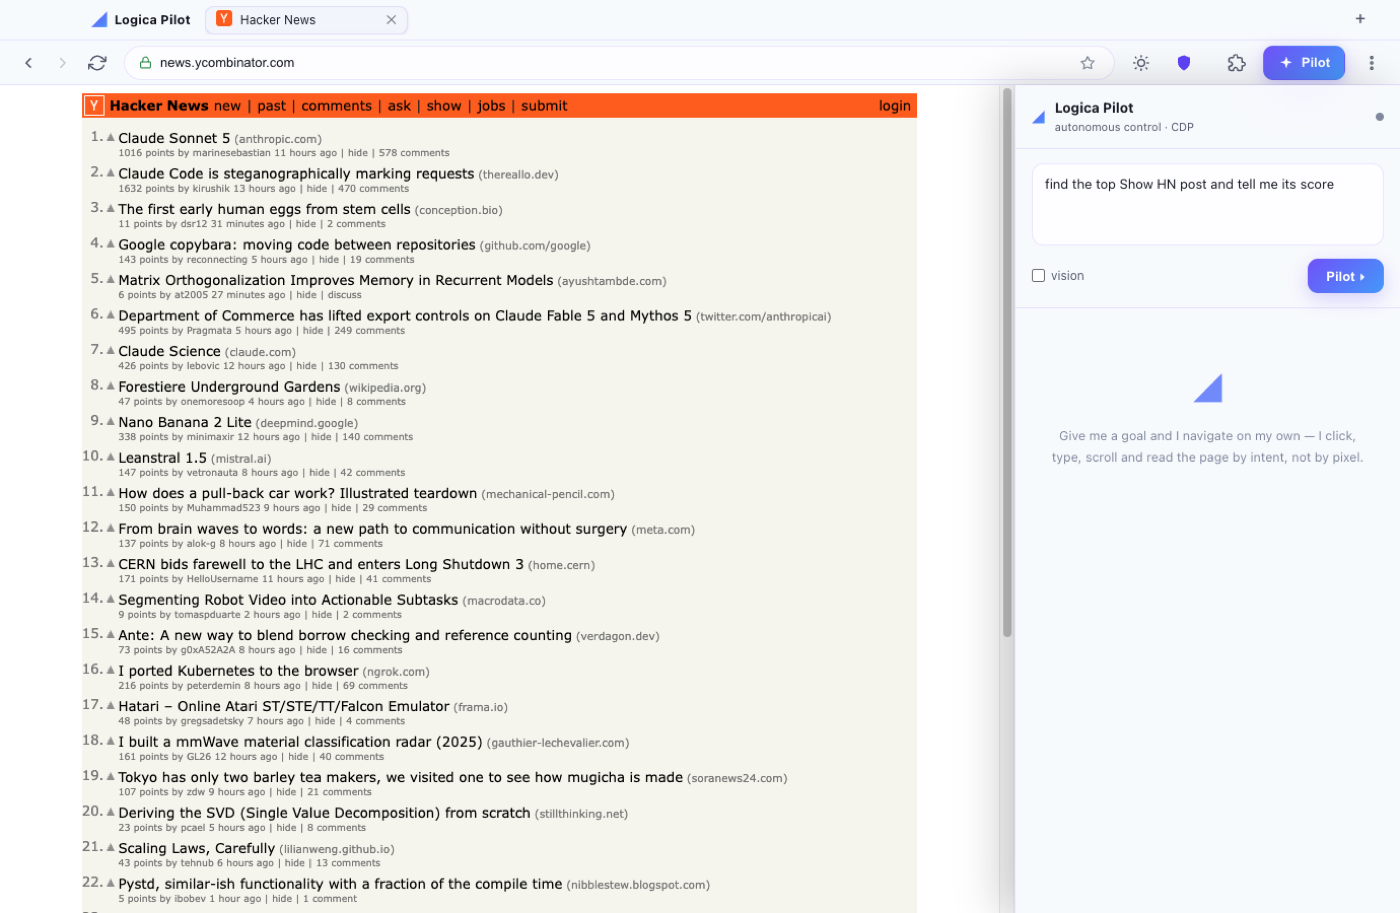
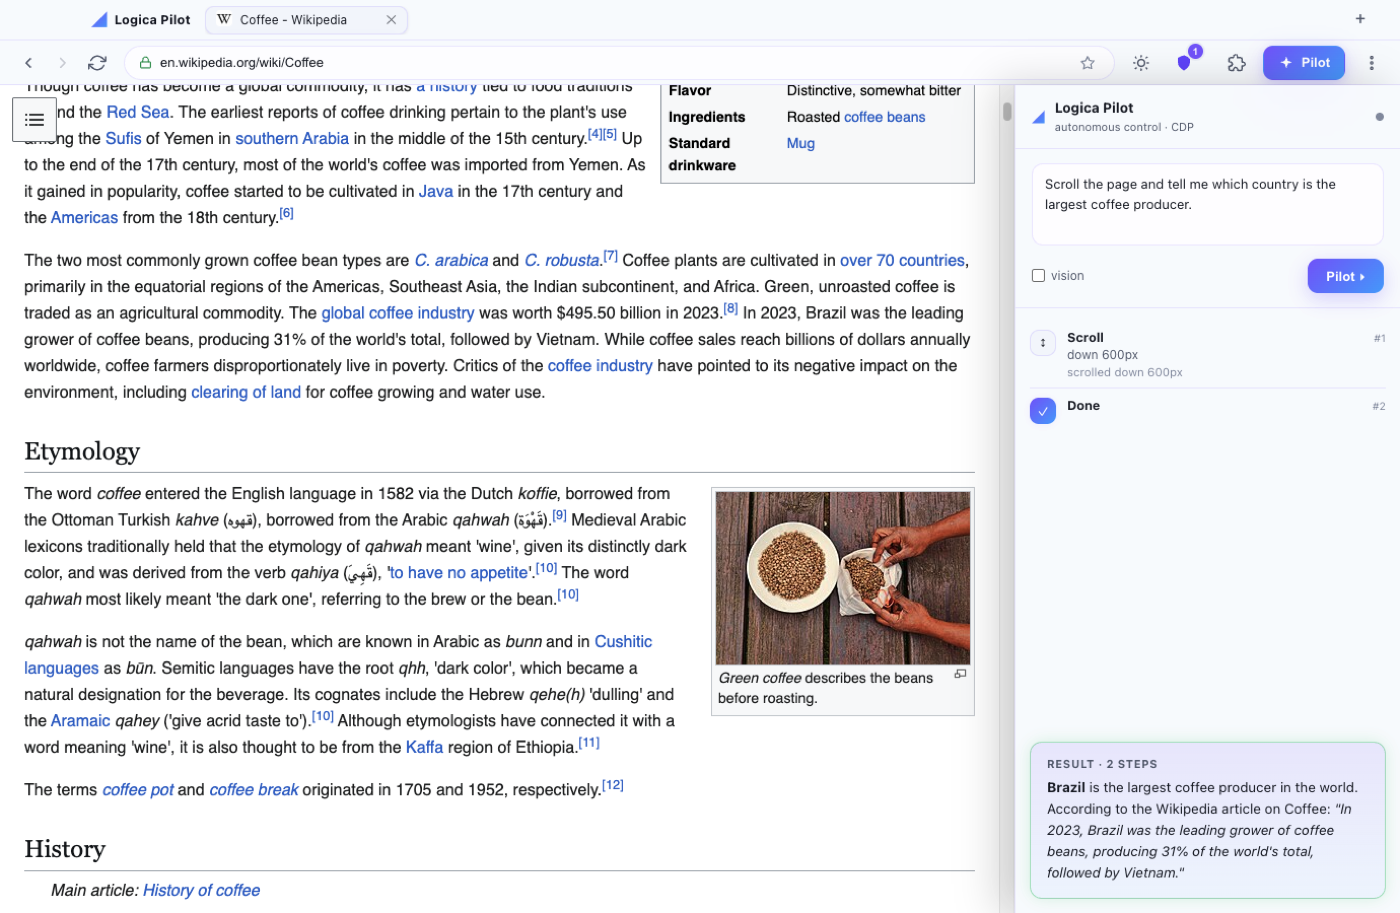
fix(pilot): answer in the browser language + render markdown; add real "in action" screenshots
Two bugs the screenshots exposed:
- The Pilot always answered in Portuguese (SYSTEM_PROMPT + the `done` tool hardcoded
  "in PT-BR"). Now it answers in the SAME LANGUAGE as the objective, and the desktop
  passes the resolved UI language explicitly (agent.run `language` option).
- The result rendered raw markdown (`**bold**` shown literally). New mdInline() safely
  renders **bold** / *italic* / `code` / line breaks (escapes HTML first) in the result
  and step lines.

Real captured screenshots (via the capture mode, English UI):
- screenshot-pilot.png: the Pilot autonomously executing a goal on Wikipedia and
  answering "**Brazil** is the largest coffee producer…" — in English, formatted.
- screenshot-adblock.png: the native ad-block panel (real blocked count on a live page).
- screenshot-home.png: the new-tab page. demo.gif is now a tour of these real states.

diff --git a/app/main.js b/app/main.js
@@ -298,28 +298,51 @@ async function runCapture(win) {
   try { fs.mkdirSync(dir, { recursive: true }); } catch {}
   const wc = win.webContents;
   const js = (code) => wc.executeJavaScript(code, true).catch(() => {});
-  const shot = async (name, ms) => {
-    await new Promise((r) => setTimeout(r, ms));
+  const sleep = (ms) => new Promise((r) => setTimeout(r, ms));
+  const shotOf = async (target, name, ms) => {
+    if (ms) await sleep(ms);
     try {
-      const img = await wc.capturePage();
+      const img = await target.webContents.capturePage();
       fs.writeFileSync(path.join(dir, name), img.toPNG());
       console.log('[capture] wrote', name);
     } catch (e) { console.error('[capture] shot failed', name, e && e.message); }
   };
+  const shot = (name, ms) => shotOf(win, name, ms);
   try {
     try { win.show(); win.focus(); } catch {}
-    // Force English everywhere: the shell i18n AND the newtab webview's own runtime
-    // i18n (which fetches pilot://newtab/_data/i18n based on settings.language).
+    // Force English everywhere: shell i18n + the newtab webview's own runtime i18n.
     try { settingsStore.set({ language: 'en' }); } catch {}
     await js(`window.i18n && window.i18n.setLang('en')`);
-    await js(`window.dispatchMenu && window.dispatchMenu('reload')`); // newtab re-fetches i18n in EN
-    await new Promise((r) => setTimeout(r, 1200));
-    await shot('home.png', 3000);                                 // new-tab (branded + feed)
-    await js(`window.dispatchMenu && window.dispatchMenu('open-url','https://news.ycombinator.com')`);
-    await shot('browsing.png', 5500);                             // real page rendered in a tab
+    await js(`window.dispatchMenu && window.dispatchMenu('reload')`);
+    await sleep(1200);
+    await shot('home.png', 2600);                                  // new-tab (branded)
+
+    // ── THE money shot: the Pilot AUTONOMOUSLY executing a real task ──
+    // Navigate a real page, open the panel, give a goal, click Run — the LogicaProxy
+    // drives the observe→decide→act loop and the timeline fills with real steps.
+    await js(`window.dispatchMenu && window.dispatchMenu('open-url','https://en.wikipedia.org/wiki/Coffee')`);
+    await sleep(4500);
     await js(`window.dispatchMenu && window.dispatchMenu('toggle-pilot');` +
-      `var g=document.getElementById('goal'); if(g){g.value='find the top Show HN post and tell me its score'; g.dispatchEvent(new Event('input')); g.focus();}`);
-    await shot('pilot.png', 1800);                                // Pilot copilot panel open
+      `var g=document.getElementById('goal');` +
+      `if(g){g.value='Scroll the page and tell me which country is the largest coffee producer.'; g.dispatchEvent(new Event('input'));}` +
+      `var r=document.getElementById('run'); if(r) r.click();`);
+    await shot('pilot-running.png', 30000);                        // let the loop produce steps
+
+    // ── Ad-block panel (separate popup window) ──
+    await js(`var b=document.getElementById('adblock-btn'); if(b) b.click();`);
+    await sleep(1400);
+    if (typeof adblockPanelWin !== 'undefined' && adblockPanelWin && !adblockPanelWin.isDestroyed()) {
+      await shotOf(adblockPanelWin, 'adblock-panel.png', 400);
+    }
+    await js(`document.body.click();`);
+    await sleep(400);
+
+    // ── Extensions menu (separate popup window) ──
+    await js(`var e=document.getElementById('ext-btn'); if(e) e.click();`);
+    await sleep(1600);
+    if (typeof menuPopupWin !== 'undefined' && menuPopupWin && !menuPopupWin.isDestroyed()) {
+      await shotOf(menuPopupWin, 'ext-menu.png', 400);
+    }
   } catch (e) { console.error('[capture] error', e && e.message); }
   app.exit(0);
 }
@@ -656,10 +679,18 @@ ipcMain.handle('pilot:run', async (evt, { guestId, objective, vision, model }) =
   runs.set(guestId, token);
 
   try {
+    // The AI answers in the browser's UI language (not a hardcoded one).
+    const uiLang = resolveUiLang(settingsStore.get().language);
+    const langName = {
+      'pt-BR': 'Brazilian Portuguese', en: 'English', es: 'Spanish', fr: 'French',
+      de: 'German', it: 'Italian', nl: 'Dutch', pl: 'Polish', ru: 'Russian',
+      ja: 'Japanese', ko: 'Korean', 'zh-CN': 'Chinese',
+    }[uiLang] || 'English';
     const res = await agent.run(page, objective, {
       vision: !!vision,
       model: model || undefined,
       maxSteps: 30,
+      language: langName,
       onStep: (s) => {
         try { evt.sender.send('pilot:step', s); } catch {}
       },

diff --git a/app/renderer/renderer.js b/app/renderer/renderer.js
@@ -724,7 +724,7 @@ function addStep({ step, action, input, result }) {
     '<div class="body">' +
     `<div class="head"><span class="act">${action}</span><span class="n">#${step}</span></div>` +
     `<div class="detail">${escapeHtml(actionDetail(action, input))}</div>` +
-    (result && action !== 'done' ? `<div class="res">${escapeHtml(String(result).slice(0, 120))}</div>` : '') +
+    (result && action !== 'done' ? `<div class="res">${mdInline(String(result).slice(0, 120))}</div>` : '') +
     '</div>';
   timeline.appendChild(el);
   timeline.scrollTop = timeline.scrollHeight;
@@ -735,7 +735,7 @@ function showResult(res) {
   resultBox.className = 'result ' + (res.success ? 'ok' : 'fail');
   resultBox.innerHTML =
     `<h4>${res.success ? 'Result' : 'Not completed'} · ${res.steps || 0} steps</h4>` +
-    `<p>${escapeHtml(res.result || '')}</p>`;
+    `<p>${mdInline(res.result || '')}</p>`;
   resultBox.scrollIntoView({ behavior: 'smooth' });
 }
 
@@ -800,6 +800,17 @@ if (window.pilot && window.pilot.onPermissionRequest) {
 // ── util ─────────────────────────────────────────────────────
 function escapeHtml(s) {
   return String(s == null ? '' : s).replace(/[&<>"']/g, (c) => ({ '&': '&amp;', '<': '&lt;', '>': '&gt;', '"': '&quot;', "'": '&#39;' }[c]));
+}
+
+// Safe inline markdown for AI results: escape first, then render **bold**, *italic*,
+// `code` and line breaks. Never injects raw HTML from the model.
+function mdInline(s) {
+  let h = escapeHtml(s);
+  h = h.replace(/\*\*([^*\n]+)\*\*/g, '<strong>$1</strong>');
+  h = h.replace(/(^|[^*])\*([^*\n]+)\*(?!\*)/g, '$1<em>$2</em>');
+  h = h.replace(/`([^`\n]+)`/g, '<code>$1</code>');
+  h = h.replace(/\r?\n/g, '<br>');
+  return h;
 }
 
 // ── boot ──────────────────────────────────────────────────────

diff --git a/src/agent.js b/src/agent.js
@@ -29,7 +29,7 @@ RULES:
 - To search/find: use "type" in the right field with submit=true (sends Enter).
 - After navigating/clicking, the next page read already reflects the result — observe before acting again.
 - Do not repeat the same action if it clearly didn't work; try a different approach.
-- When the OBJECTIVE is fulfilled, call "done" with success=true and a clear, complete "result" (the final answer for the user, in PT-BR).
+- When the OBJECTIVE is fulfilled, call "done" with success=true and a clear, complete "result" (the final answer for the user, written in the SAME LANGUAGE the user wrote the OBJECTIVE in).
 - If genuinely stuck (paywall, mandatory login, captcha, loop), call "done" with success=false explaining why.
 - Be efficient: the minimum number of steps to the result.`;
 
@@ -117,7 +117,7 @@ const TOOLS = [
       type: 'object',
       properties: {
         success: { type: 'boolean' },
-        result: { type: 'string', description: 'Response/final result in PT-BR.' },
+        result: { type: 'string', description: 'The final result, in the SAME LANGUAGE as the objective.' },
       },
       required: ['success', 'result'],
     },
@@ -168,6 +168,11 @@ async function run(page, objective, opts = {}) {
   const visionMode = !!opts.vision;
   const model = opts.model;
   const onStep = typeof opts.onStep === 'function' ? opts.onStep : () => {};
+  // Respond in the caller's language (the browser UI language) when provided;
+  // otherwise the prompt already tells the model to mirror the objective's language.
+  const system = opts.language
+    ? `${SYSTEM_PROMPT}\n\nIMPORTANT: write the final "result" in ${opts.language}.`
+    : SYSTEM_PROMPT;
 
   if (opts.startUrl) {
     await actions.navigate(page, opts.startUrl);
@@ -211,7 +216,7 @@ async function run(page, objective, opts = {}) {
     let resp;
     try {
       resp = await llm.callClaude({
-        system: SYSTEM_PROMPT,
+        system,
         messages: trimImages(history),
         tools: TOOLS,
         model,

diff --git a/README.md b/README.md
@@ -12,8 +12,12 @@ goal is met. Pure CDP engine · zero-dependency core · headless agent mode **an
 browser · **CLI and MCP** with the same 26 tools.
 
 <p align="center">
-  <img src="docs/media/demo.gif" alt="Logica Pilot in action — real browser, real page, autonomous Pilot copilot" width="100%">
-  <br><em>The real desktop browser: a live page in a tab and the autonomous <strong>Pilot</strong> copilot on the right.</em>
+  <img src="docs/media/demo.gif" alt="Logica Pilot in action — new tab, autonomous Pilot executing a task, native ad-block" width="100%">
+</p>
+
+<p align="center">
+  <img src="docs/media/screenshot-pilot.png" alt="The Pilot autonomously executes a real goal on Wikipedia and answers with a formatted result" width="100%">
+  <br><em>A real run: given a goal, the Pilot <strong>scrolls, reads and answers</strong> — in the browser's language, formatted (steps on the right, ad-block counter in the toolbar).</em>
 </p>
 
 ---
@@ -397,7 +401,9 @@ All recipes are **MCP tools** too — call them directly from Claude or any agen
 ## Desktop Browser Features
 
 <p align="center">
-  <img src="docs/media/screenshot-browsing.png" alt="Logica Pilot browsing a live page with the autonomous Pilot copilot panel" width="92%">
+  <img src="docs/media/screenshot-home.png" alt="Logica Pilot new-tab page" width="65%">
+  &nbsp;
+  <img src="docs/media/screenshot-adblock.png" alt="Native ad-block panel — blocked count and per-site allow" width="30%">
 </p>
 
 The Logica Pilot browser window (real browser engine) includes: